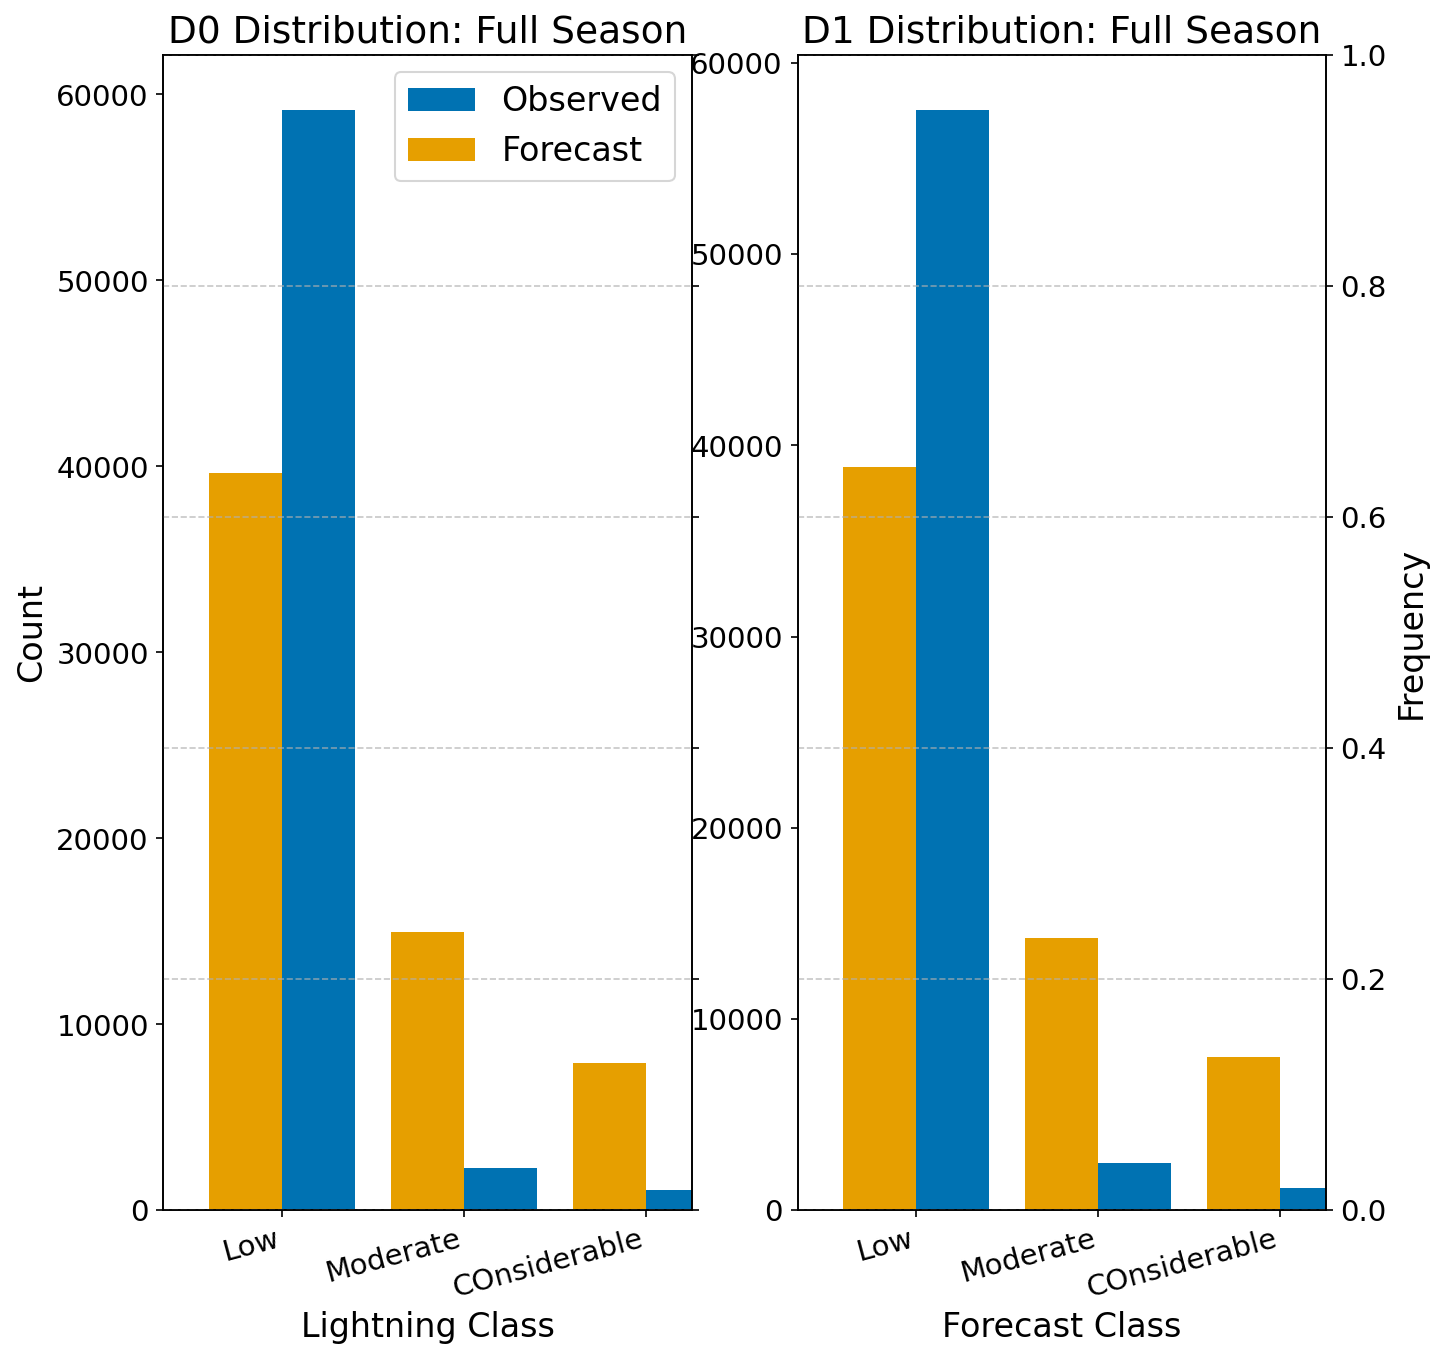
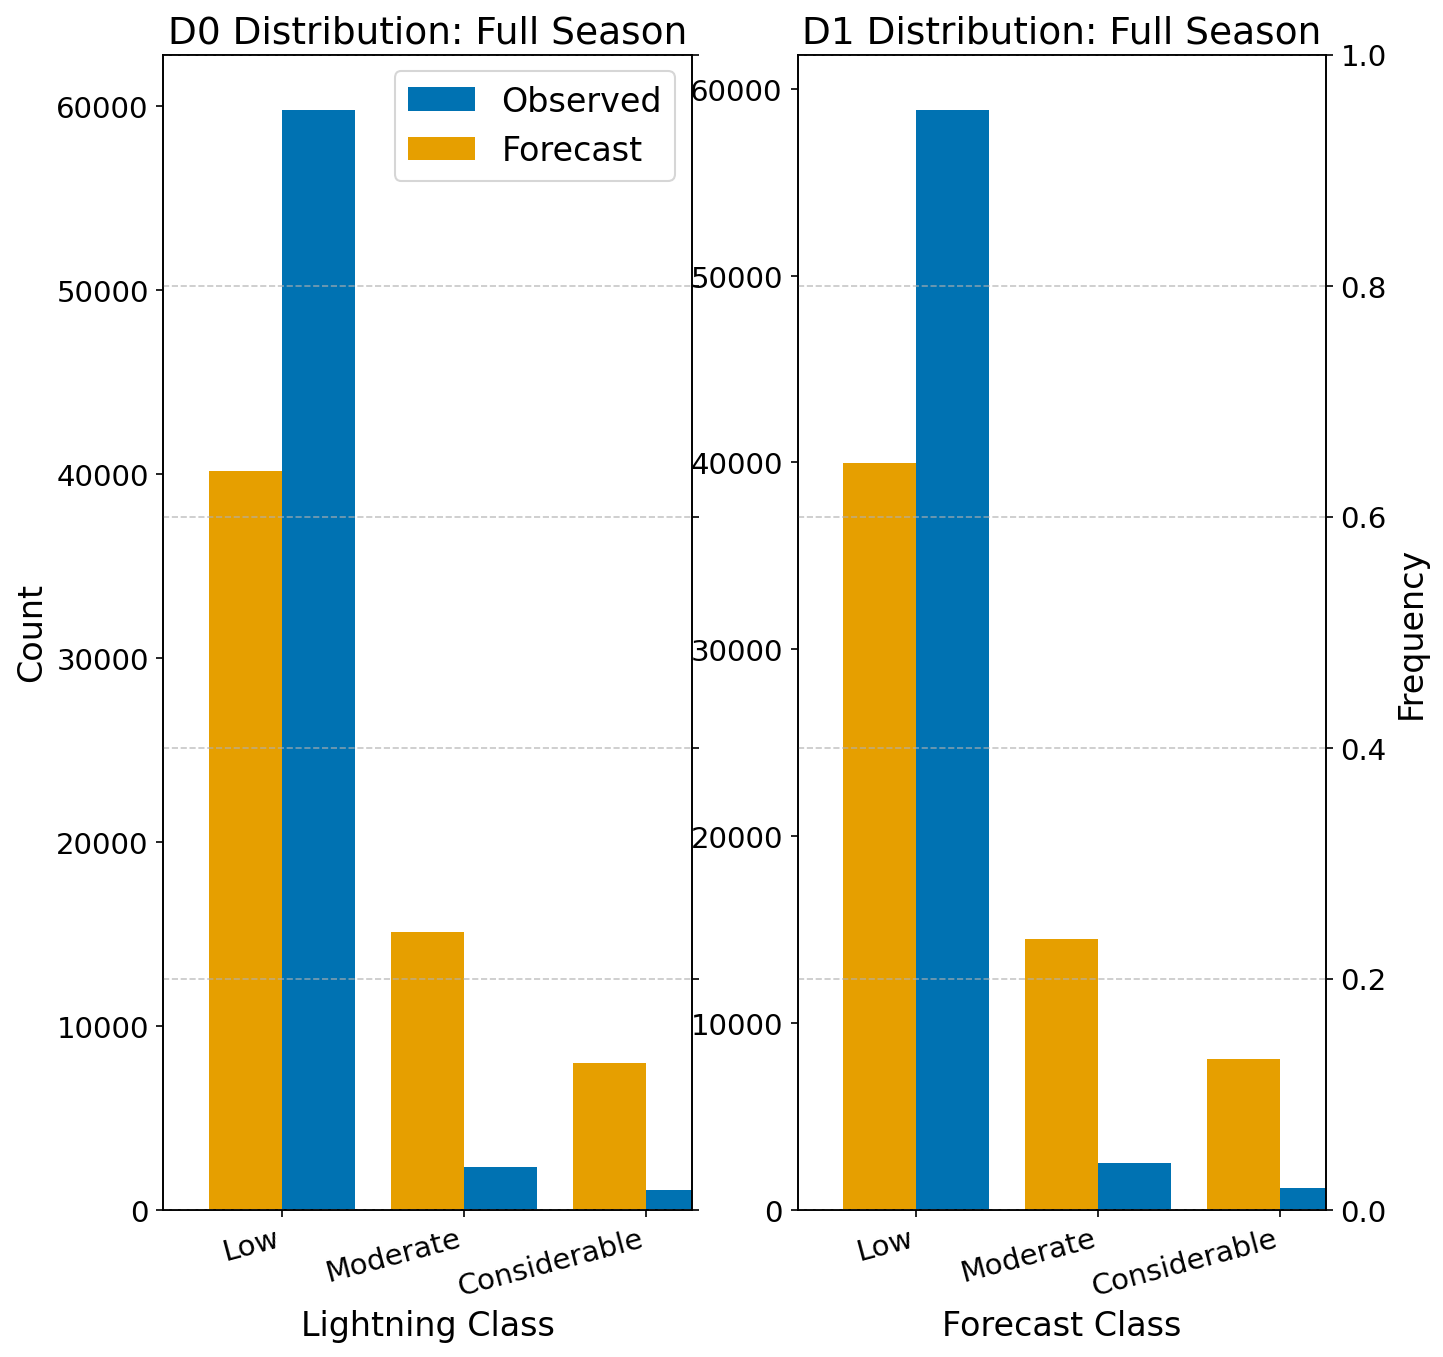
Last day of 2026 Validation

diff --git a/docs/build/html/validation.html b/docs/build/html/validation.html
@@ -285,7 +285,7 @@ The Considerable bin is only a hit if dry lightning occurs. The Moderate is allo
 <tr class="row-odd"><td><p>d1</p></td>
 <td><p>0.64</p></td>
 <td><p>0.04</p></td>
-<td><p>0.15</p></td>
+<td><p>0.16</p></td>
 </tr>
 </tbody>
 </table>

diff --git a/VALIDATE/holdovers.py b/VALIDATE/holdovers.py
@@ -31,9 +31,9 @@ TEMP_DIR = BASE_DIR / "temp"
 PLOTS_DIR.mkdir(exist_ok=True)
 
 extension = "lightning_forecast.gpkg"
-holdover_days = 20 # number of forecasts to pull up
+holdover_days = 2 # number of forecasts to pull up
 
-date_base = datetime.today()
+date_base = datetime(2026, 8, 13)  #"2026-08-13"
 
 #%%
 def plot_color(ii):
@@ -110,7 +110,7 @@ def assign_bin_to_strike(ldf, fcst_df):
     result[out_col] = nearest_vals
 
     # now just return the rows that are considerable
-    result = result[result[out_col] == "considerable"]
+    #result = result[result[out_col] == "considerable"]
 
     return result
 
@@ -255,7 +255,7 @@ gl.right_labels = False
 # --------------------------------------
 dplot = date_base.strftime("%Y-%m-%d")
 ax.set_title(
-    f"Potential Holdover Lightning Strikes in the Last 20 Days From {dplot}",
+    f"Potential Holdover Lightning Strikes in the Last {holdover_days} Days From {dplot}",
     fontsize=14,
     fontweight="bold",
     loc="left",

diff --git a/VALIDATE/categorical_d0_validate.py b/VALIDATE/categorical_d0_validate.py
@@ -33,7 +33,7 @@ from datetime import datetime, timedelta
 from sshtunnel import SSHTunnelForwarder
 
 ##### User Input #####
-vd = "today"  # "other" or "today"
+vd = "other"  # "other" or "today"
 if vd == "other":
     date_base = input("Enter the date to validate (YYYY-MM-DD): ")
     date = date_base

diff --git a/VALIDATE/hist_plot.py b/VALIDATE/hist_plot.py
@@ -153,7 +153,7 @@ def plot_histogram(df1, df2, title_suffix, filename):
     class_tick_labels = [
         "Low",
         "Moderate",
-        "COnsiderable",
+        "Considerable",
     ]
     # figures
     fig, (ax0, ax2) = plt.subplots(1, 2, figsize=(10, 10))
